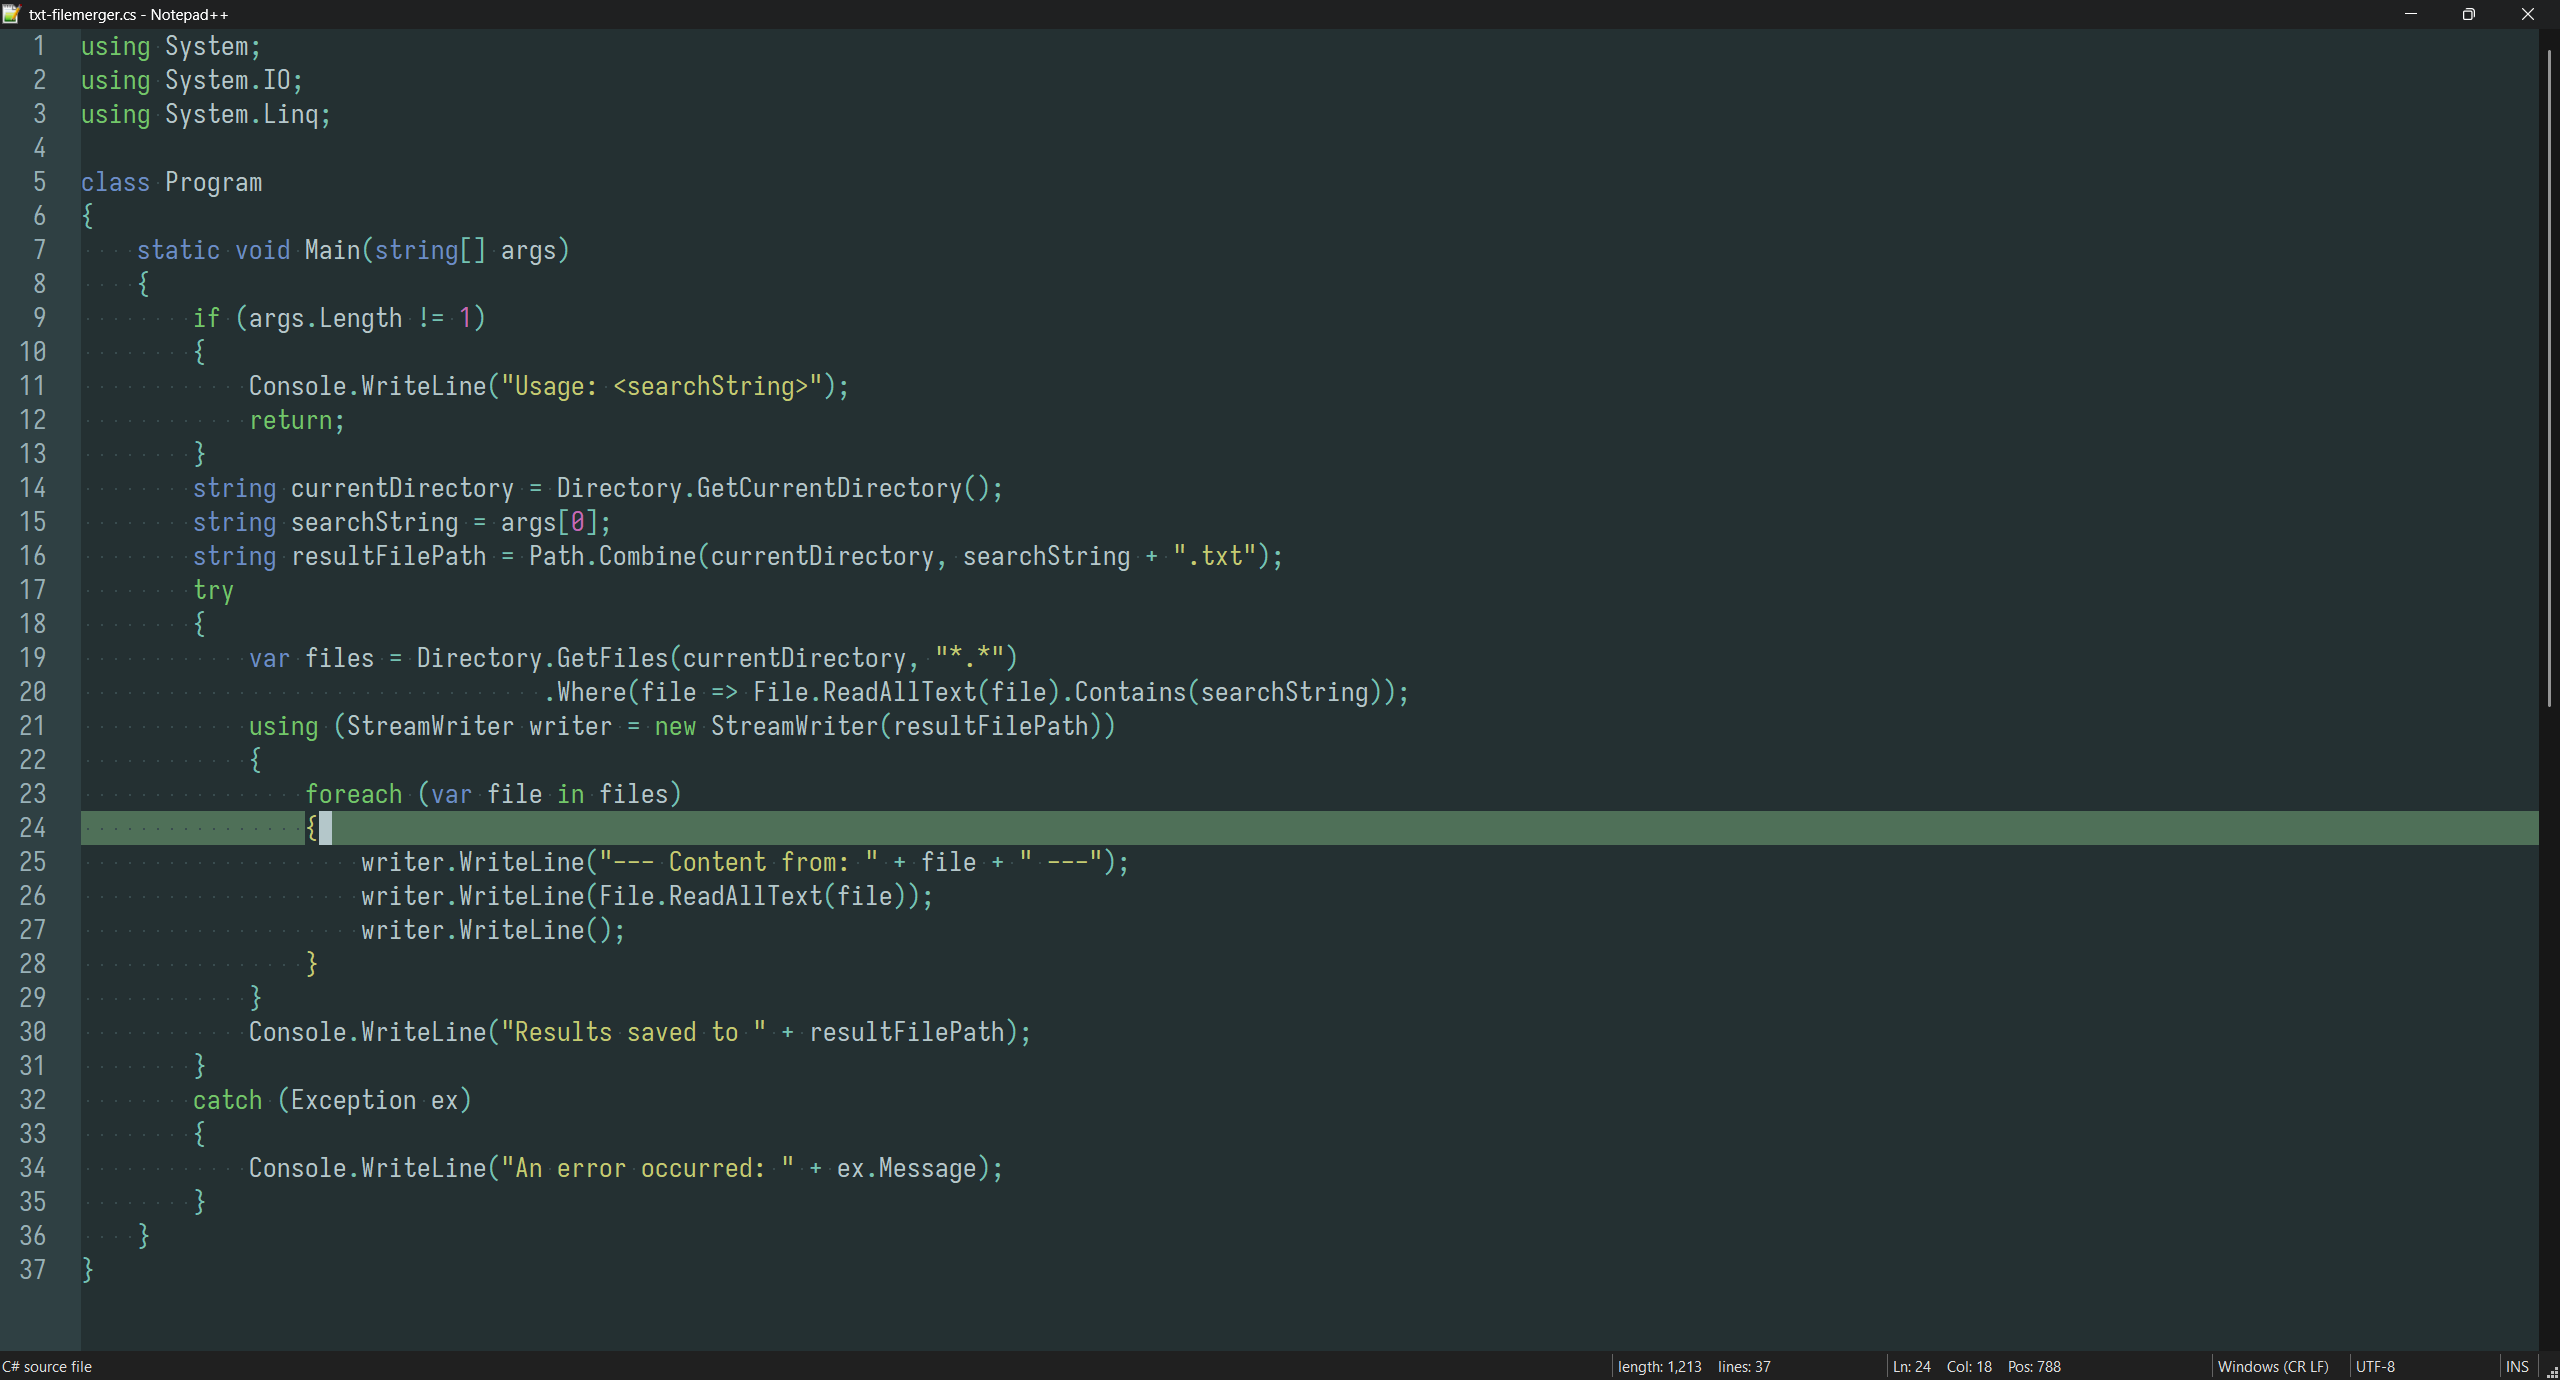
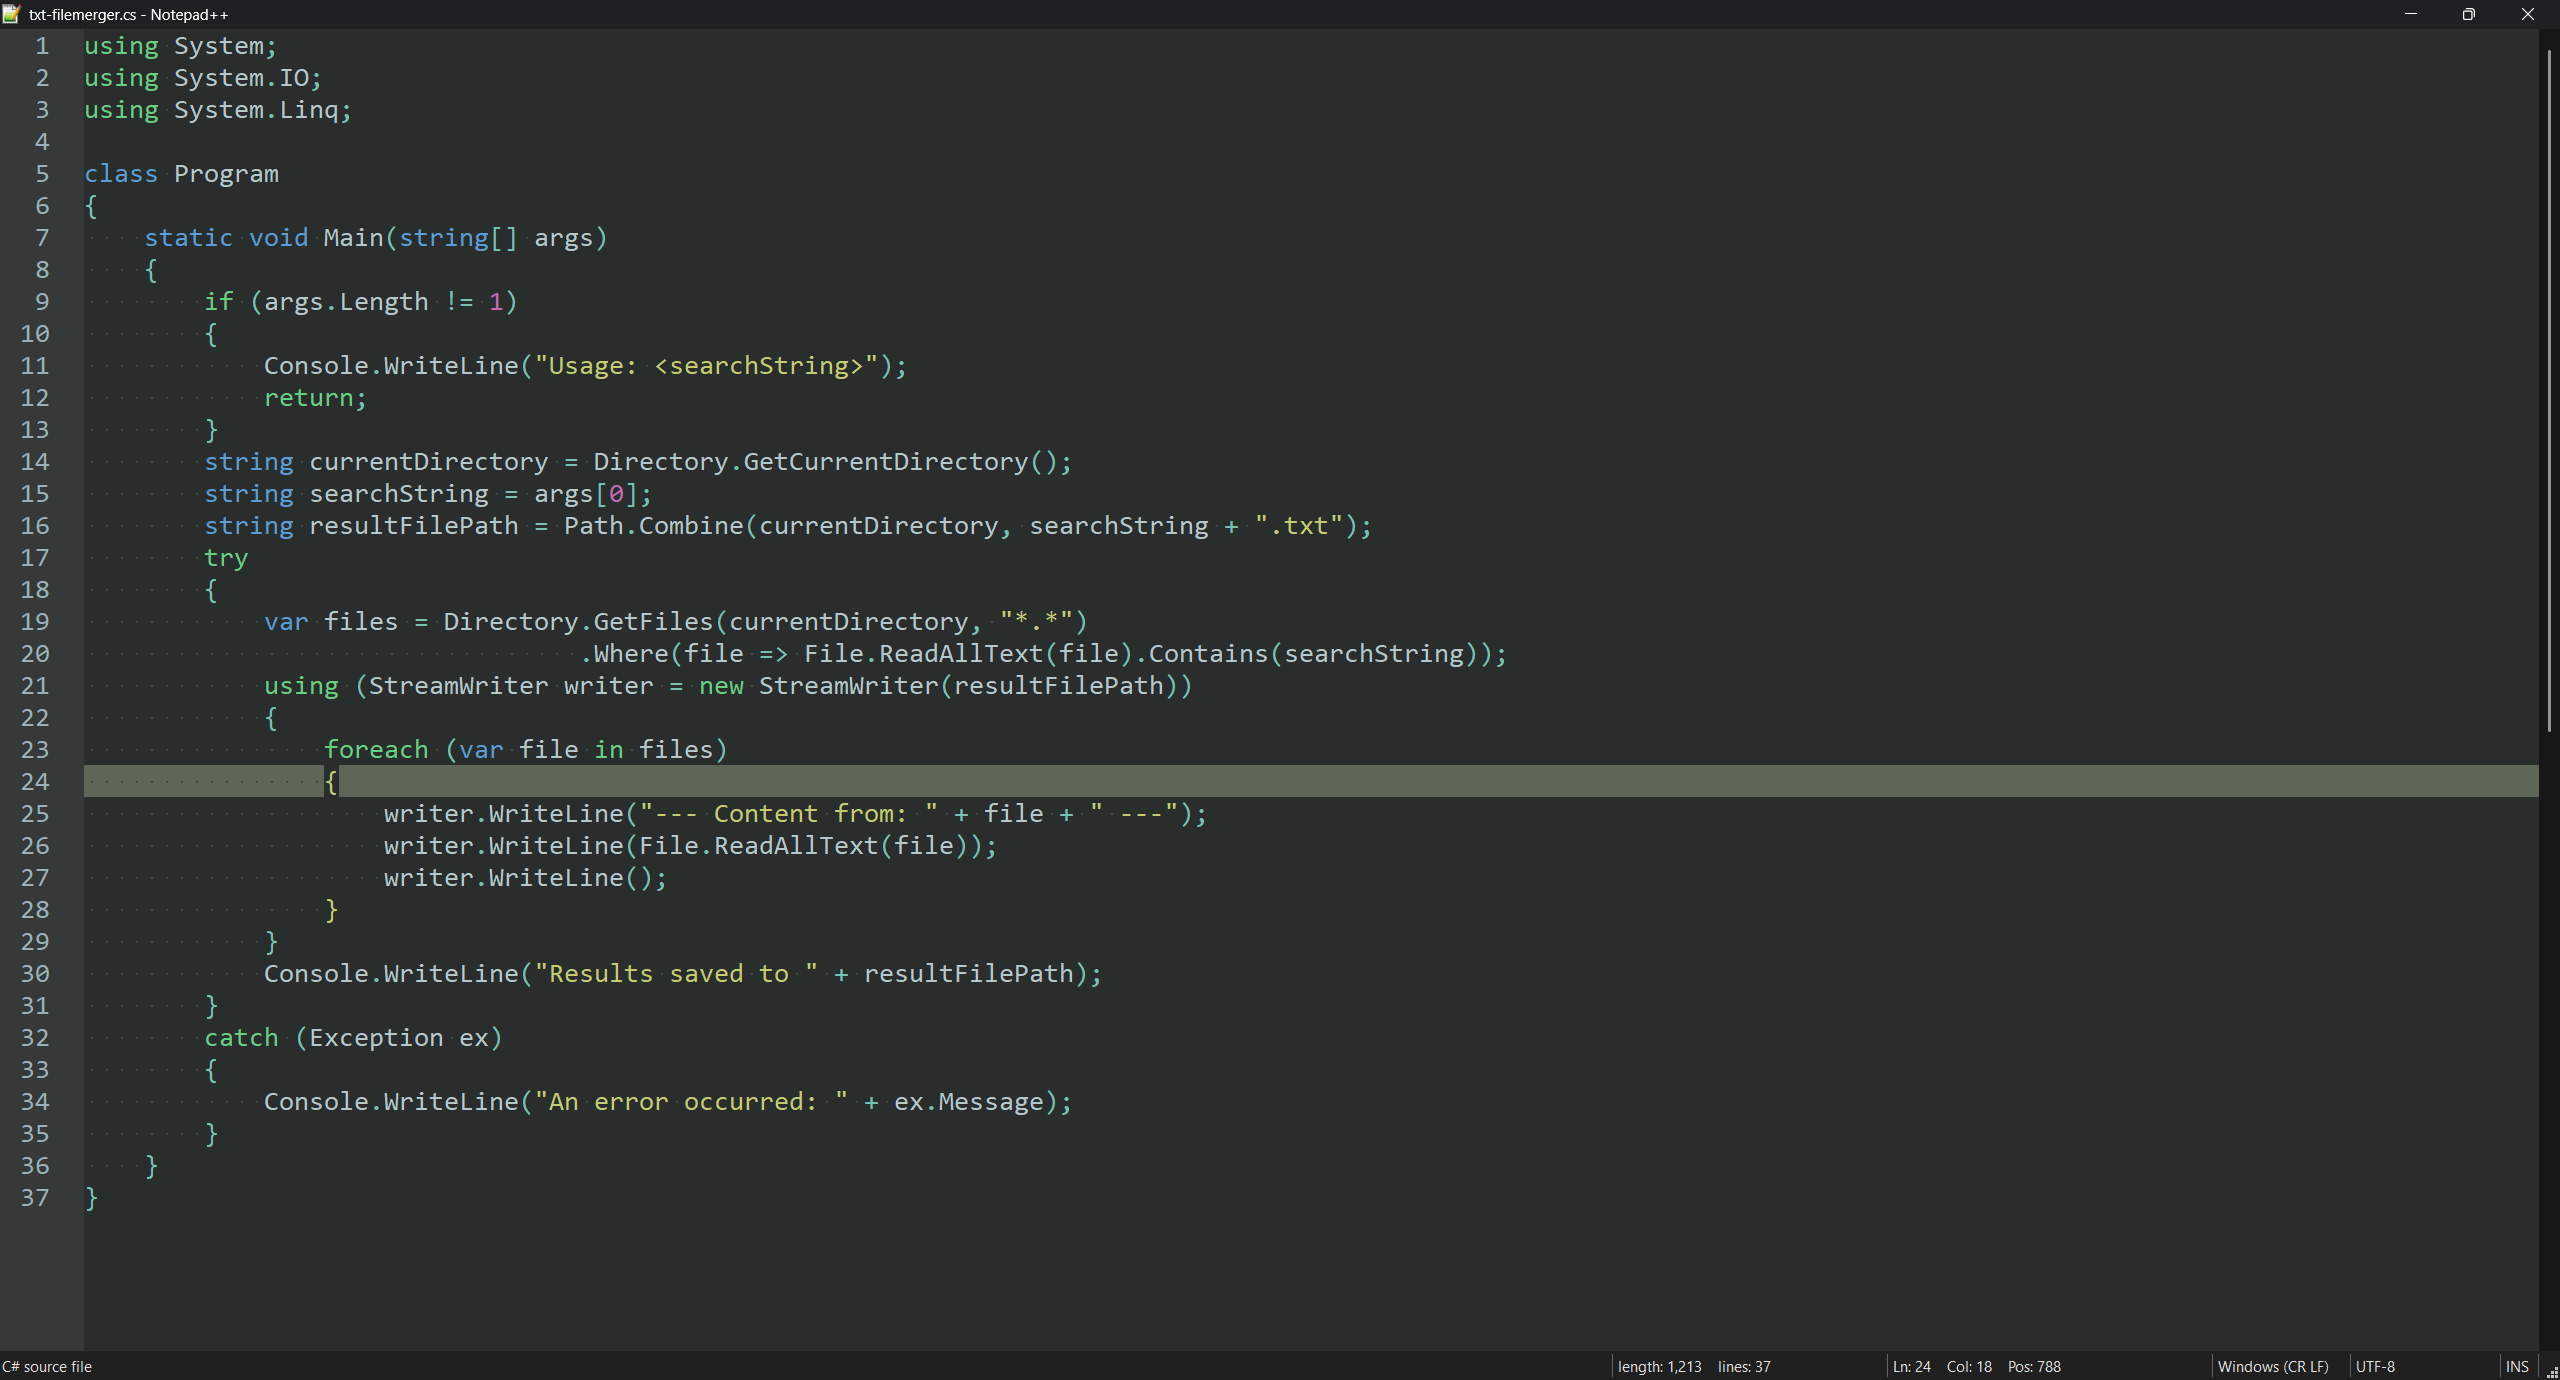
updating breath-dark and adding cmd-advanced theme

diff --git a/scheme_files/other/cmd-advanced.html b/scheme_files/other/cmd-advanced.html
@@ -1,0 +1,148 @@
+<!doctype html>
+<!--
+this template is meant as a reference sheet for your color theme
+-->
+<html lang="en">
+	<head>
+		<title>Color Codes</title>
+		<meta charset="utf-8">
+		<meta name="List of Theme Colors" content="">
+		<style>
+			body {font-family: monospace;}
+			h3 {font-size: 220%;}
+			table {font-size: 140%;border-collapse: collapse;}
+			td {padding: 18px;border: 1px solid black;}
+			a {font-size: 70%;color: grey}
+		</style>
+	</head>
+	<body>
+		<br>
+		<h3>CMD Advanced</h3>
+		<table>
+			<tr>
+				<th>DESC</th>
+				<th>HEX CODE</th>
+				<th>COLOR</th>
+			</tr>
+			<tr>
+				<td>Background - 1st level<br><a>default text bg</a></td>
+				<td>#1B191C</td>
+				<td style="background-color:#1B191C;"></td>
+			</tr>
+			<tr>
+				<td>Background - 2nd level<br><a>inactive tab or file bg, 2nd level surfaces bg</a></td>
+				<td>#282529</td>
+				<td style="background-color:#282529;"></td>
+			</tr>
+			<tr>
+				<td>Background - 3rd level<br><a>separators, other bg symbols</a></td>
+				<td>#353136</td>
+				<td style="background-color:#353136;"></td>
+			</tr>
+			<tr>
+				<td>Foreground - 1st level<br><a>Terminal: Bright White</a></td>
+				<td>#D1CCD1</td>
+				<td style="background-color:#D1CCD1;"></td>
+			</tr>
+			<tr>
+				<td>Foreground - 2nd level<br><a>Terminal: White<br>cursor</a></td>
+				<td>#BFB9BF</td>
+				<td style="background-color:#BFB9BF;"></td>
+			</tr>
+			<tr>
+				<td>Foreground - 3rd level<br><a>2nd level surfaces fg, inactive tab fg</td>
+				<td>#AFA8AF</td>
+				<td style="background-color:#AFA8AF;"></td>
+			</tr>
+			<tr>
+				<td>Foreground - 4th level<br><a>line numbers</a></td>
+				<td>#9D959E</td>
+				<td style="background-color:#9D959E;"></td>
+			</tr>
+			<tr>
+				<td>Highlight - 1st level<br><a>alternative marks</a></td>
+				<td>#847A86</td>
+				<td style="background-color:#847A86;"></td>
+			</tr>	
+			<tr>
+				<td>Highlight - 2nd level<br><a>selection, search marks</a></td>
+				<td>#6A626C</td>
+				<td style="background-color:#6A626C;"></td>
+			</tr>	
+			<tr>
+				<td>Highlight - 3rd level<br><a>current line</a></td>
+				<td>#504A51</td>
+				<td style="background-color:#504A51;"></td>
+			</tr>
+		</table>
+		<br>
+		<table>
+			<tr>
+				<th>DESC</th>
+				<th>HEX CODE</th>
+				<th>COLOR</th>
+			</tr>
+			<tr>
+				<td>dark 1<br><a>TERMINAL: red</a></td>
+				<td>#AC3A3A</td>
+				<td style="background-color:#AC3A3A;"></td>
+			</tr>
+			<tr>
+				<td>dark 2<br><a>TERMINAL: yellow</a></td>
+				<td>#C69D53</td>
+				<td style="background-color:#C69D53;"></td>
+			</tr>
+			<tr>
+				<td>dark 3<br><a>TERMINAL: cyan</a></td>
+				<td>#3AAEAD</td>
+				<td style="background-color:#3AAEAD;"></td>
+			</tr>
+			<tr>
+				<td>dark 4<br><a>TERMINAL: green</a></td>
+				<td>#91AE3A</td>
+				<td style="background-color:#91AE3A;"></td>
+			</tr>
+			<tr>
+				<td>dark 5<br><a>TERMINAL: blue</a></td>
+				<td>#3A59AE</td>
+				<td style="background-color:#3A59AE;"></td>
+			</tr>
+			<tr>
+				<td>dark 6<br><a>TERMINAL: magenta (purple)</a></td>
+				<td>#AE3A82</td>
+				<td style="background-color:#AE3A82;"></td>
+			</tr>
+			<tr>
+				<td>bright 1<br><a>TERMINAL: bright red</a></td>
+				<td>#E05050</td>
+				<td style="background-color:#E05050;"></td>
+			</tr>
+			<tr>
+				<td>bright 2<br><a>TERMINAL: bright yellow</a></td>
+				<td>#F1BC5B</td>
+				<td style="background-color:#F1BC5B;"></td>
+			</tr>
+			<tr>
+				<td>bright 3<br><a>TERMINAL: bright cyan</a></td>
+				<td>#54C6C5</td>
+				<td style="background-color:#54C6C5;"></td>
+			</tr>
+			<tr>
+				<td>bright 4<br><a>TERMINAL: bright green</a></td>
+				<td>#A9C653</td>
+				<td style="background-color:#A9C653;"></td>
+			</tr>
+			<tr>
+				<td>bright 5<br><a>TERMINAL: bright blue</a></td>
+				<td>#6681CC</td>
+				<td style="background-color:#6681CC;"></td>
+			</tr>
+			<tr>
+				<td>bright 6<br><a>TERMINAL: bright magenta (purple)</a></td>
+				<td>#C55299</td>
+				<td style="background-color:#C55299;"></td>
+			</tr>
+		</table>
+		<br>
+	</body>
+</html>

diff --git a/doc/galery.md b/doc/galery.md
@@ -49,6 +49,14 @@ Choose what suits you better.<br><br>
 ![](/assets/pictures/text-editor/classicv2.png)<br><br>
 ![](/assets/pictures/terminal/classicv2.png)<br><br>
 
+**Cmd Advanced**<br>
+The only theme where you have dark and bright colors for the terminal. Usually
+I spare the dark colors, but for this one I stayed standard. I took quite some
+time with the colors and I hope you like this traditional, yet classical theme
+for terminal and editors.<br><br>
+![](/assets/pictures/text-editor/cmd-advanced.png)<br><br>
+![](/assets/pictures/terminal/cmd-advanced.png)<br><br>
+
 **Condor**<br>
 ![](/assets/pictures/text-editor/condor.png)<br><br>
 ![](/assets/pictures/terminal/condor.png)<br><br>